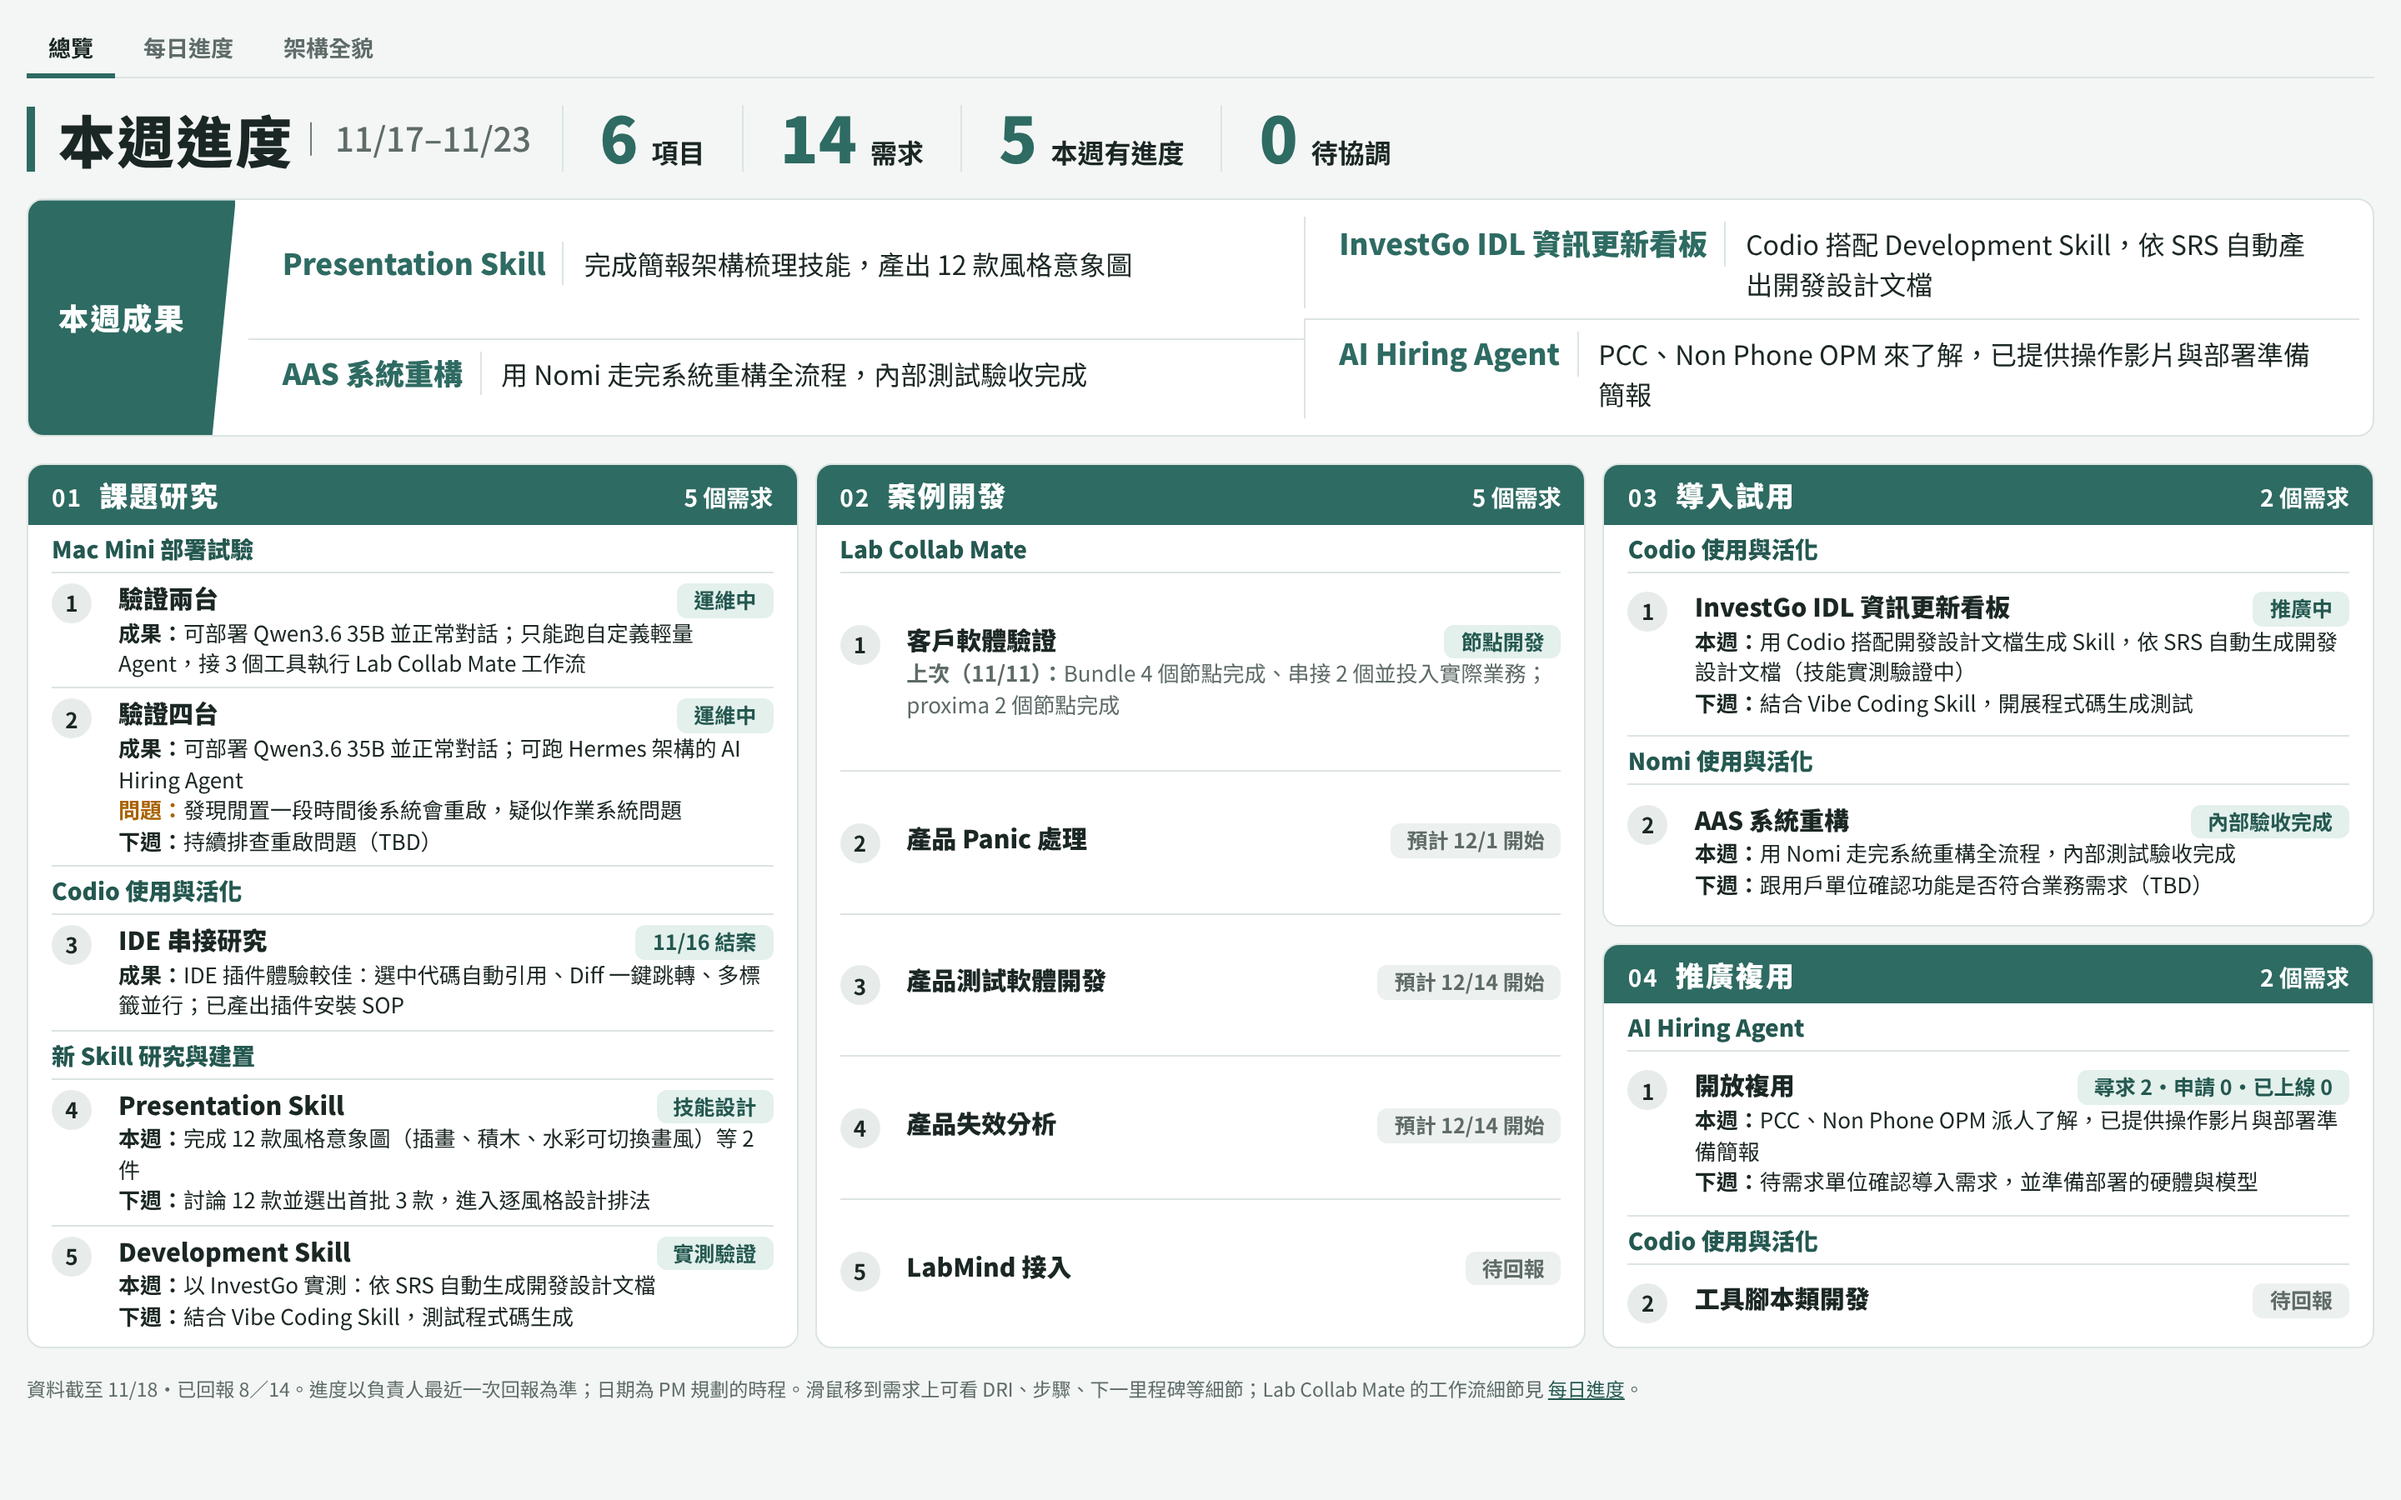
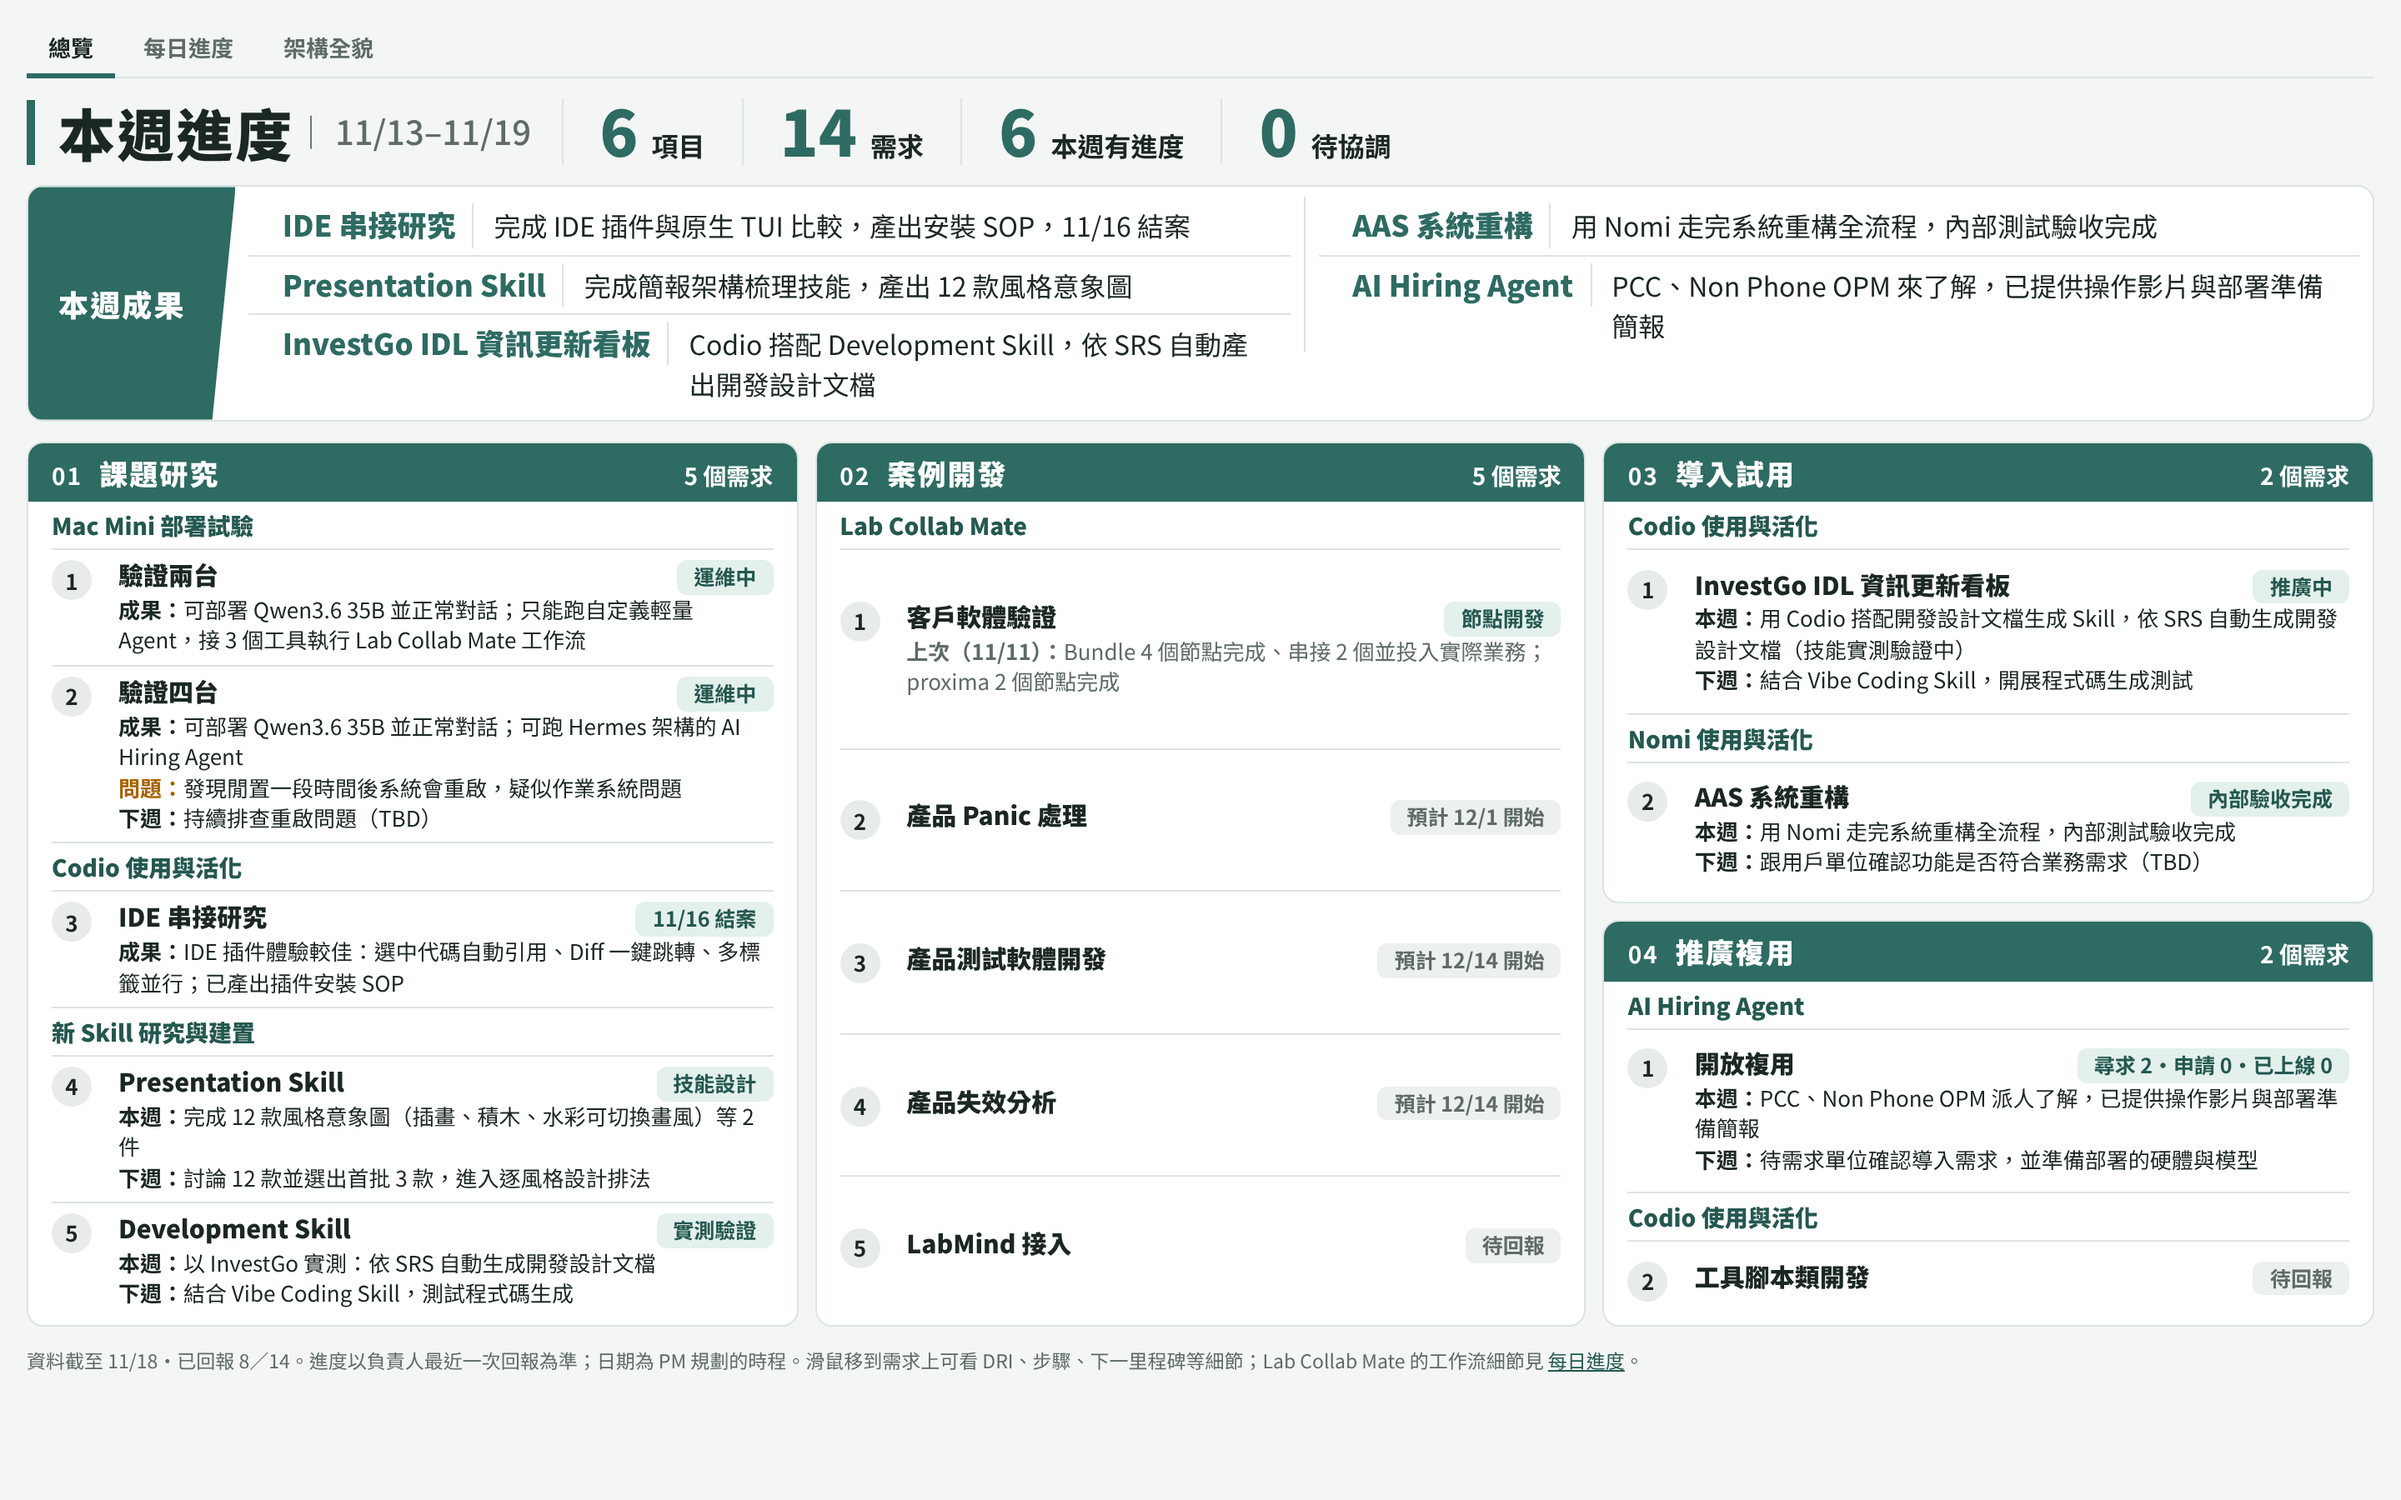
[2026-11-17_overview-redesign] 週次更正為 11/13–11/19；IDE 串接研究放進本週成果、DRI Neo；本週成果 4 則以上改左右兩欄
Claude-Session: https://claude.ai/code/session_01Cd6Gft6mTX8zcMZinAmXya

diff --git a/public/index.html b/public/index.html
@@ -61,9 +61,11 @@ h1,h2,h3,h4{margin:0;text-wrap:balance}
 .wins li{display:flex;align-items:baseline;gap:12px;padding:3px 20px;min-width:0;font-size:16px}
 .wins li + li{border-left:1px solid var(--line)}
 /* 4 則時排成兩欄兩列 */
-.wins ul.g2{row-gap:6px}
-.wins ul.g2 li:nth-child(odd){border-left:0}
-.wins ul.g2 li:nth-child(n+3){border-top:1px solid var(--line);padding-top:7px}
+.wcols{display:grid;grid-template-columns:repeat(2,minmax(0,1fr));align-items:start;padding:6px 0}
+.wcols ul{display:flex;flex-direction:column;align-items:stretch;padding:0 8px}
+.wcols ul + ul{border-left:1px solid var(--line)}
+.wcols li{border-left:0!important;padding-block:4px}
+.wcols li + li{border-top:1px solid var(--line)}
 .wins li b{color:var(--brand);font-size:17.5px;font-weight:900;white-space:nowrap;padding-right:10px;border-right:1px solid var(--line)}
 .wins li span{min-width:0}
 .wins .empty{padding:0 18px;color:var(--muted);align-self:center}
@@ -105,6 +107,7 @@ footer a{color:var(--brand-ink)}
 /* 矮螢幕（如筆電 1440×900）再壓縮，維持單屏 */
 /* 一頁不滾動的自動調整（由下方程式依實際高度決定）：
    預設＝寬鬆；超出一屏時 fit1＝模塊區緊湊、上方仍寬鬆；仍超出時 fit2＝全部緊湊 */
+html.fit1 .page{gap:12px}
 html.fit1 .board,html.fit1 .col{gap:10px}
 html.fit1 .mod > header{padding:5px 14px}
 html.fit1 .mod h3{font-size:17px}
@@ -122,8 +125,11 @@ html.fit2 .req{padding:4px 0 5px}
 html.fit2 .req h4{font-size:15px}
 html.fit2 .ln{font-size:13px;line-height:1.42}
 html.fit2 .wins ul{padding:4px 8px}
-html.fit2 .wins ul.g2{row-gap:2px}
-html.fit2 .wins ul.g2 li:nth-child(n+3){padding-top:3px}
+html.fit2 .wins li{font-size:13px;line-height:1.35;padding-top:1px;padding-bottom:1px}
+html.fit2 .wins li b{font-size:14px}
+html.fit2 .wcols{padding:3px 0}
+html.fit2 .wcols li{padding-block:1px}
+html.fit2 .wcols{padding:2px 0}
 html.fit2 .page{gap:9px;padding-block:6px 8px}
 html.fit2 .head h1{font-size:27px}
 html.fit2 .head .seg b{font-size:28px}
@@ -175,9 +181,9 @@ html.fit2 .ask b{font-size:15.5px}
      rel    與其他需求的關聯
      nums   推廣型要問的數字名稱
      rep    本週回報：{now:步驟索引或索引陣列（-1＝尚未開始）, subDone:子階段完成數, subs:[[子項,步驟索引]],
-                       pill:"狀態標籤文字（選填，覆寫自動判斷）", issue:"遇到的問題（不需副總幫忙；不算本週進度）", done:[...], next:[...], hl:[放進「本週成果」的完成事項：索引，或 {i:索引, s:主題, t:短句}], help:"", conclusion:"", nums:{...}}；null＝待回報
+                       pill:"狀態標籤文字（選填，覆寫自動判斷）", hideDone:true＝卡片不顯示本週（內容已在成果，只用於本週成果與統計）, issue:"遇到的問題（不需副總幫忙；不算本週進度）", done:[...], next:[...], hl:[放進「本週成果」的完成事項：索引，或 {i:索引, s:主題, t:短句}], help:"", conclusion:"", nums:{...}}；null＝待回報
      last   最近一次的已知狀態（本週尚未回報時顯示）：{date, now, subs, text} */
-const WEEK = {from:"2026-11-17", to:"2026-11-23"};
+const WEEK = {from:"2026-11-13", to:"2026-11-19"};  /* 週次：週五到隔週四 */
 const ASOF = "2026-11-18";
 
 const WF = ["設計規劃","節點開發","首次跑通","五次跑通","用戶驗收","上線"];
@@ -192,9 +198,11 @@ const MODULES = [
      desc:"硬體：Mac mini 24G × 4，雷靂 5 全互聯。已部署 Qwen3.6 35B A3B（4-bit），進入部署後運維。記憶體：只跑模型單機 13G；跑 AI Hiring Agent 單機 26G（超過實體 24G，會用到 Swap）。",
      rep:{pill:"運維中", conclusion:"可部署 Qwen3.6 35B 並正常對話；可跑 Hermes 架構的 AI Hiring Agent",
           issue:"發現閒置一段時間後系統會重啟，疑似作業系統問題", next:["持續排查重啟問題（TBD）"]}},
-    {proj:"Codio 使用與活化", name:"IDE 串接研究", type:"research", dri:null, q:"從 IDE 使用 Codio 與直接使用的差異",
+    {proj:"Codio 使用與活化", name:"IDE 串接研究", type:"research", dri:"Neo", q:"從 IDE 使用 Codio 與直接使用的差異",
      desc:"比較 Codio 的 IDE 插件與原生 TUI：插件在上手、多會話、閱讀輸出、選中代碼、引用檔案、跳回代碼都較直覺；TUI 把操作留在鍵盤上。產出 IDE 插件安裝 SOP（5 步）。11/16 結案，沒有規劃下一步。",
-     rep:{pill:"11/16 結案", conclusion:"IDE 插件體驗較佳：選中代碼自動引用、Diff 一鍵跳轉、多標籤並行；已產出插件安裝 SOP"}},
+     rep:{pill:"11/16 結案", conclusion:"IDE 插件體驗較佳：選中代碼自動引用、Diff 一鍵跳轉、多標籤並行；已產出插件安裝 SOP",
+          done:["完成 IDE 插件與原生 TUI 體驗比較，產出插件安裝 SOP，11/16 結案"], hideDone:true,
+          hl:[{i:0, s:"IDE 串接研究", t:"完成 IDE 插件與原生 TUI 比較，產出安裝 SOP，11/16 結案"}]}},
     {proj:"新 Skill 研究與建置", name:"Presentation Skill", type:"deliver", dri:"Alyanna", steps:SKILL, rel:"之後接上 Nomi",
      sub:{at:2, items:["目標／對象／架構／內容梳理","風格與排版","品管與檢查驗證"]},
      desc:"技能名 deck-architect（從頭到尾支援簡報全流程的 Skill）。進度來源：claude-base-skills repo 的 presentation-skill-generation 分支。目前在技能設計：方法論已用 4 份真實簡報驗證，正在做設計美感的風格定調；尚未用真實簡報從頭做到成品。",
@@ -268,13 +276,17 @@ const seg = (n, t) => `<div class="seg"><b class="num">${n}</b><span>${t}</span>
 $("head").innerHTML = `<h1>本週進度</h1><span class="wk num">｜ ${md(WEEK.from)}–${md(WEEK.to)}</span>` +
   seg(projCount, "項目") + seg(REQS.length, "需求") + seg(progressed, "本週有進度") + seg(helps.length, "待協調");
 
-/* 第二行：本週成果「主題｜成果」。回報的 hl 可寫 {i:完成事項索引, s:主題, t:短句}；只寫索引時，主題用需求名、內容用完成事項原文。最多 4 則 */
+/* 第二行：本週成果「主題｜成果」。回報的 hl 可寫 {i:完成事項索引, s:主題, t:短句}；只寫索引時，主題用需求名、內容用完成事項原文。最多 6 則 */
 let wins = reported.flatMap(r => (r.rep.hl || []).map(h => typeof h === "number"
   ? {s:r.name, t:r.rep.done[h]} : {s:h.s || r.name, t:h.t || r.rep.done[h.i]}));
 if (!wins.length) wins = reported.filter(hasDone).map(r => ({s:r.name, t:r.rep.done[0]}));
-wins = wins.slice(0, 4);
+wins = wins.slice(0, 6);
 $("wins").innerHTML = wins.length
-  ? `<ul class="${wins.length === 4 ? "g2" : ""}" style="--n:${wins.length === 4 ? 2 : wins.length}">${wins.map(w => `<li><b>${esc(w.s)}</b><span>${esc(w.t)}</span></li>`).join("")}</ul>`
+  ? (() => { const n = wins.length, c = n <= 3 ? n : 2;  /* 1–3 則一排；4 則以上兩欄 */
+      const li = w => `<li><b>${esc(w.s)}</b><span>${esc(w.t)}</span></li>`;
+      if (n <= 3) return `<ul style="--n:${c}">${wins.map(li).join("")}</ul>`;
+      const h = Math.ceil(n / 2);  /* 4 則以上：左右兩欄各自由上往下排 */
+      return `<div class="wcols"><ul>${wins.slice(0, h).map(li).join("")}</ul><ul>${wins.slice(h).map(li).join("")}</ul></div>`; })()
   : `<div class="empty">本週回報彙整中；負責人回覆後，這裡會列出本週最重要的成果。</div>`;
 
 /* 第三行：請副總協助（有事項才出現） */
@@ -318,7 +330,7 @@ function reqHTML(r, i){
     if (r.rep.conclusion) rows += `<div class="ln"><b>成果：</b>${esc(r.rep.conclusion)}</div>`;
     if (r.rep.issue) rows += `<div class="ln issue"><b>問題：</b>${esc(r.rep.issue)}</div>`;
     const d = r.rep.done || [], n = r.rep.next || [];
-    if (d.length) rows += `<div class="ln"><b>本週：</b>${esc(d[0])}${more(d)}</div>`;
+    if (d.length && !r.rep.hideDone) rows += `<div class="ln"><b>本週：</b>${esc(d[0])}${more(d)}</div>`;
     if (n.length) rows += `<div class="ln next" title="下週：${esc(n.join("；"))}"><b>下週：</b>${esc(n[0])}${more(n)}</div>`;
   } else if (r.last && r.last.text) {
     rows += `<div class="ln last"><b>上次（${md(r.last.date)}）：</b>${esc(r.last.text)}</div>`;
